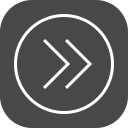
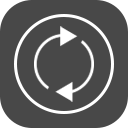
New structure of guns.json; Applied json data to gun in GunScreen correctly.

Changed region(s): [[0.25, 0.1875, 0.75, 0.8125]]

diff --git a/core/src/com/divelix/skitter/screens/GunScreen.kt b/core/src/com/divelix/skitter/screens/GunScreen.kt
@@ -7,16 +7,12 @@ import com.badlogic.gdx.InputMultiplexer
 import com.badlogic.gdx.graphics.GL20
 import com.badlogic.gdx.graphics.Texture
 import com.badlogic.gdx.graphics.g2d.SpriteBatch
-import com.badlogic.gdx.scenes.scene2d.Group
-import com.badlogic.gdx.scenes.scene2d.InputEvent
-import com.badlogic.gdx.scenes.scene2d.Stage
-import com.badlogic.gdx.scenes.scene2d.Touchable
+import com.badlogic.gdx.scenes.scene2d.*
 import com.badlogic.gdx.scenes.scene2d.ui.Container
 import com.badlogic.gdx.scenes.scene2d.ui.Image
 import com.badlogic.gdx.scenes.scene2d.ui.Label
 import com.badlogic.gdx.scenes.scene2d.ui.Table
 import com.badlogic.gdx.scenes.scene2d.utils.ClickListener
-import com.badlogic.gdx.scenes.scene2d.utils.DragListener
 import com.badlogic.gdx.scenes.scene2d.utils.TextureRegionDrawable
 import com.badlogic.gdx.utils.*
 import com.badlogic.gdx.utils.Array
@@ -55,14 +51,10 @@ class GunScreen(val game: Main): KtxScreen {
     var sourceContainer: Container<*>? = null
 
     var damage: Float
-    var reload_speed: Float
-    var critMult: Float
+    var reloadSpeed: Float
+    var bulletSpeed: Float
     var critChance: Float
-
-    var finalDamage = 0f
-    var finalSpeed = 0f
-    var finalCritMult = 0f
-    var finalCritChance = 0f
+    var critMult: Float
 
     init {
         val reader = JsonReader()
@@ -73,6 +65,7 @@ class GunScreen(val game: Main): KtxScreen {
         val guns = gunsData.get("guns")
         val mods = modsData.get("mods")
 
+        // GUN
         val playerGun = playerGuns[playerData.get("active_gun").asInt()]
         val playerGunIndex = playerGun.get("index").asInt()
         val playerGunLevel = playerGun.get("level").asInt()
@@ -86,13 +79,14 @@ class GunScreen(val game: Main): KtxScreen {
         }
 
         val gunSpecs = activeGun.get("specs")
-        damage = gunSpecs.get("damage").asFloat()
-        reload_speed = gunSpecs.get("reload_speed").asFloat()
-        // bullet speed
-        critChance = gunSpecs.get("crit_chance").asFloat()
-        critMult = gunSpecs.get("crit_multiplier").asFloat()
-        println(" Damage: $damage\n Reload: $reload_speed\n Crit multiplier: $critMult\n Crit chance: $critChance")
+        damage = gunSpecs[0].asFloat()
+        reloadSpeed = gunSpecs[1].asFloat()
+        bulletSpeed = gunSpecs[2].asFloat()
+        critChance = gunSpecs[3].asFloat()
+        critMult = gunSpecs[4].asFloat()
+        println(" Damage: $damage\n Reload: $reloadSpeed\n BulletSpeed: $bulletSpeed\n CritChance: $critChance\n CritMult: $critMult")
 
+        // MODS
         val gunMods = mods.get("gun")
         val playerGunModIndices = Array<Int>(playerGunMods.size)
         for (i in 0 until playerGunMods.size) {
@@ -156,7 +150,8 @@ class GunScreen(val game: Main): KtxScreen {
                     padLeft(10f)
                     defaults().expandX().left()
                     label("DAMAGE: $damage");row()
-                    label("RELOAD: $reload_speed");row()
+                    label("RELOAD: $reloadSpeed");row()
+                    label("SPEED: $bulletSpeed");row()
                     label("CRIT: $critMult");row()
                     label("CHANCE: $critChance")
                 }
@@ -193,7 +188,7 @@ class GunScreen(val game: Main): KtxScreen {
             }
         })
 
-        stage.addListener(object: DragListener() {
+        stage.addListener(object: ClickListener() {
 
             override fun touchDown(event: InputEvent?, x: Float, y: Float, pointer: Int, button: Int): Boolean {
                 super.touchDown(event, x, y, pointer, button)
@@ -228,7 +223,7 @@ class GunScreen(val game: Main): KtxScreen {
                     }
                     is Container<*> -> {
                         if (activeMod != null) {
-                            val isInSameTable = actor.parent.parent.name == activeMod!!.parent.parent.name
+                            val isInSameTable = actor.parent.name == activeMod!!.parent.parent.name
                             if (isInSameTable || !checkDupSuit(activeMod!!.mod.name) || activeMod!!.parent.parent.name == "SuitTable") {
                                 activeMod!!.children[1].remove()
                                 actor.actor = activeMod
@@ -260,25 +255,28 @@ class GunScreen(val game: Main): KtxScreen {
     }
 
     fun updateSpecs() {
-        finalDamage = damage
-        finalSpeed = reload_speed
-        finalCritMult = critMult
-        finalCritChance = critChance
+        var finalDamage = damage
+        var finalReloadSpeed = reloadSpeed
+        var finalBulletSpeed = bulletSpeed
+        var finalCritMult = critMult
+        var finalCritChance = critChance
         for (container in suitTable.children) {
             val c = (container as Container<*>)
             if (c.actor != null) {
                 val mod = (c.actor as ModImage).mod
                 when(mod.name) {
                     ModName.DAMAGE -> finalDamage *= 2f
-                    ModName.RELOAD_SPEED -> finalSpeed *= 1.1f
+                    ModName.RELOAD_SPEED -> finalReloadSpeed *= 1.1f
+                    ModName.BULLET_SPEED -> finalBulletSpeed *= 1.1f
                     else -> println("${mod.name} is not implemented yet")
                 }
             }
         }
         (specsTable.children[0] as Label).setText("DAMAGE: $finalDamage")
-        (specsTable.children[1] as Label).setText("SPEED: $finalSpeed")
-        (specsTable.children[2] as Label).setText("CRIT: $finalCritMult")
-        (specsTable.children[3] as Label).setText("CHANCE: $finalCritChance")
+        (specsTable.children[1] as Label).setText("RELOAD: $finalReloadSpeed")
+        (specsTable.children[2] as Label).setText("SPEED: $finalBulletSpeed")
+        (specsTable.children[3] as Label).setText("CRIT: $finalCritMult")
+        (specsTable.children[4] as Label).setText("CHANCE: $finalCritChance")
     }
 
     override fun render(delta: Float) {
@@ -344,14 +342,18 @@ class GunScreen(val game: Main): KtxScreen {
             val texture = when(mod.name) {
                 // Gun stockMods
                 ModName.DAMAGE -> assets.manager.get<Texture>(Constants.MOD_DAMAGE)
+                ModName.RELOAD_SPEED -> assets.manager.get<Texture>(Constants.MOD_RELOAD_SPEED)
+                ModName.BULLET_SPEED -> assets.manager.get<Texture>(Constants.MOD_BULLET_SPEED)
+                ModName.CRIT_CHANCE -> assets.manager.get<Texture>(Constants.LOADING_IMAGE) //TODO add texture
+                ModName.CRIT_MULT -> assets.manager.get<Texture>(Constants.LOADING_IMAGE) //TODO add texture
+
                 ModName.FIRE_DAMAGE -> assets.manager.get<Texture>(Constants.MOD_FIRE_DAMAGE)
                 ModName.COLD_DAMAGE -> assets.manager.get<Texture>(Constants.MOD_COLD_DAMAGE)
-                ModName.RELOAD_SPEED -> assets.manager.get<Texture>(Constants.MOD_RELOAD_SPEED)
 
                 // Ship stockMods
-                ModName.HEALTH -> TODO()
-                ModName.SPEED -> TODO()
-                ModName.MANA -> TODO()
+                ModName.HEALTH -> assets.manager.get<Texture>(Constants.LOADING_IMAGE) //TODO add texture
+                ModName.SPEED -> assets.manager.get<Texture>(Constants.LOADING_IMAGE) //TODO add texture
+                ModName.MANA -> assets.manager.get<Texture>(Constants.LOADING_IMAGE) //TODO add texture
             }
             addActor(Image(texture).apply {
                 touchable = Touchable.disabled

diff --git a/core/src/com/divelix/skitter/systems/PhysicsSystem.kt b/core/src/com/divelix/skitter/systems/PhysicsSystem.kt
@@ -16,7 +16,7 @@ import com.divelix.skitter.screens.PlayScreen
 class PhysicsSystem(private val world: World, private val blackList: ArrayList<Body>):
         IteratingSystem(Family.all(B2dBodyComponent::class.java, TransformComponent::class.java).get()) {
     companion object {
-        // create variables to stabilize reload_speed
+        // create variables to stabilize reloadSpeed
         private var accumulator = 0f
     }
     private val bodiesQueue: Array<Entity> = Array()

diff --git a/core/src/com/divelix/skitter/Assets.kt b/core/src/com/divelix/skitter/Assets.kt
@@ -45,6 +45,7 @@ class Assets: Disposable {
         manager.load<Texture>(Constants.UZI)
         manager.load<Texture>(Constants.MOD_GLOW)
         manager.load<Texture>(Constants.MOD_RELOAD_SPEED)
+        manager.load<Texture>(Constants.MOD_BULLET_SPEED)
         manager.load<Texture>(Constants.MOD_COLD_DAMAGE)
         manager.load<Texture>(Constants.MOD_DAMAGE)
         manager.load<Texture>(Constants.MOD_FIRE_DAMAGE)

diff --git a/core/src/com/divelix/skitter/systems/EnemySystem.kt b/core/src/com/divelix/skitter/systems/EnemySystem.kt
@@ -26,6 +26,6 @@ class EnemySystem: IteratingSystem(Family.all(EnemyComponent::class.java).get())
         bodyCmp.body.linearVelocity = playerPos.sub(enemyPos).nor().scl(speed)
 
 //        time += deltaTime
-//        bodyCmp.body.linearVelocity = Vector2(reload_speed * MathUtils.sin(time), -5f)
+//        bodyCmp.body.linearVelocity = Vector2(reloadSpeed * MathUtils.sin(time), -5f)
     }
 }

diff --git a/core/src/com/divelix/skitter/Constants.kt b/core/src/com/divelix/skitter/Constants.kt
@@ -51,6 +51,7 @@ object Constants {
     const val UZI = "uzi.png"
     const val MOD_GLOW = "mods/mod-glow.png"
     const val MOD_RELOAD_SPEED = "mods/reload-speed.png"
+    const val MOD_BULLET_SPEED = "mods/bullet-speed.png"
     const val MOD_COLD_DAMAGE = "mods/cold-damage.png"
     const val MOD_DAMAGE = "mods/damage.png"
     const val MOD_FIRE_DAMAGE = "mods/fire-damage.png"

diff --git a/core/src/com/divelix/skitter/Mod.kt b/core/src/com/divelix/skitter/Mod.kt
@@ -6,6 +6,9 @@ enum class ModName {
     // Gun
     DAMAGE,
     RELOAD_SPEED,
+    BULLET_SPEED,
+    CRIT_CHANCE,
+    CRIT_MULT,
     FIRE_DAMAGE,
     COLD_DAMAGE,
 

diff --git a/core/src/com/divelix/skitter/Noise.java b/core/src/com/divelix/skitter/Noise.java
@@ -49,7 +49,7 @@ public class Noise implements Serializable {
      * then runs a simple unary hash on s and returns it. Has better performance than HastyPointHash, especially for
      * ints, and has slightly fewer collisions in a hash table of points. GWT-optimized. Inspired by Pelle Evensen's
      * rrxmrrxmsx_0 unary hash, though this doesn'stockTable use its code or its full algorithm. The unary hash used here has
-     * been stripped down heavily, both for reload_speed and because unless points are selected specifically to target
+     * been stripped down heavily, both for reloadSpeed and because unless points are selected specifically to target
      * flaws in the hash, it doesn'stockTable need the intense resistance to bad inputs that rrxmrrxmsx_0 has.
      * @param x x position, as an int
      * @param y y position, as an int
@@ -65,7 +65,7 @@ public class Noise implements Serializable {
      * then runs a simple unary hash on s and returns it. Has better performance than HastyPointHash, especially for
      * ints, and has slightly fewer collisions in a hash table of points. GWT-optimized. Inspired by Pelle Evensen's
      * rrxmrrxmsx_0 unary hash, though this doesn'stockTable use its code or its full algorithm. The unary hash used here has
-     * been stripped down heavily, both for reload_speed and because unless points are selected specifically to target
+     * been stripped down heavily, both for reloadSpeed and because unless points are selected specifically to target
      flaws in the hash, it doesn'stockTable need the intense resistance to bad inputs that rrxmrrxmsx_0 has.
      * @param x x position, as an int
      * @param y y position, as an int
@@ -83,7 +83,7 @@ public class Noise implements Serializable {
      * then runs a simple unary hash on s and returns it. Has better performance than HastyPointHash, especially for
      * ints, and has slightly fewer collisions in a hash table of points. GWT-optimized. Inspired by Pelle Evensen's
      * rrxmrrxmsx_0 unary hash, though this doesn'stockTable use its code or its full algorithm. The unary hash used here has
-     * been stripped down heavily, both for reload_speed and because unless points are selected specifically to target
+     * been stripped down heavily, both for reloadSpeed and because unless points are selected specifically to target
      * flaws in the hash, it doesn'stockTable need the intense resistance to bad inputs that rrxmrrxmsx_0 has.
      * @param x x position, as an int
      * @param y y position, as an int
@@ -102,7 +102,7 @@ public class Noise implements Serializable {
      * numbers, then runs a simple unary hash on s and returns it. Has better performance than HastyPointHash,
      * especially for ints, and has slightly fewer collisions in a hash table of points. GWT-optimized. Inspired by
      * Pelle Evensen's rrxmrrxmsx_0 unary hash, though this doesn'stockTable use its code or its full algorithm. The unary
-     * hash used here has been stripped down heavily, both for reload_speed and because unless points are selected
+     * hash used here has been stripped down heavily, both for reloadSpeed and because unless points are selected
      * specifically to target flaws in the hash, it doesn'stockTable need the intense resistance to bad inputs that
      * rrxmrrxmsx_0 has.
      * @param x x position, as an int
@@ -124,7 +124,7 @@ public class Noise implements Serializable {
      * then runs a simple unary hash on s and returns it. Has better performance than HastyPointHash, especially for
      * ints, and has slightly fewer collisions in a hash table of points. GWT-optimized. Inspired by Pelle Evensen's
      * rrxmrrxmsx_0 unary hash, though this doesn'stockTable use its code or its full algorithm. The unary hash used here has
-     * been stripped down heavily, both for reload_speed and because unless points are selected specifically to target
+     * been stripped down heavily, both for reloadSpeed and because unless points are selected specifically to target
      * flaws in the hash, it doesn'stockTable need the intense resistance to bad inputs that rrxmrrxmsx_0 has.
      * @param x x position, as an int
      * @param y y position, as an int
@@ -140,7 +140,7 @@ public class Noise implements Serializable {
      * then runs a simple unary hash on s and returns it. Has better performance than HastyPointHash, especially for
      * ints, and has slightly fewer collisions in a hash table of points. GWT-optimized. Inspired by Pelle Evensen's
      * rrxmrrxmsx_0 unary hash, though this doesn'stockTable use its code or its full algorithm. The unary hash used here has
-     * been stripped down heavily, both for reload_speed and because unless points are selected specifically to target
+     * been stripped down heavily, both for reloadSpeed and because unless points are selected specifically to target
      flaws in the hash, it doesn'stockTable need the intense resistance to bad inputs that rrxmrrxmsx_0 has.
      * @param x x position, as an int
      * @param y y position, as an int
@@ -158,7 +158,7 @@ public class Noise implements Serializable {
      * then runs a simple unary hash on s and returns it. Has better performance than HastyPointHash, especially for
      * ints, and has slightly fewer collisions in a hash table of points. GWT-optimized. Inspired by Pelle Evensen's
      * rrxmrrxmsx_0 unary hash, though this doesn'stockTable use its code or its full algorithm. The unary hash used here has
-     * been stripped down heavily, both for reload_speed and because unless points are selected specifically to target
+     * been stripped down heavily, both for reloadSpeed and because unless points are selected specifically to target
      * flaws in the hash, it doesn'stockTable need the intense resistance to bad inputs that rrxmrrxmsx_0 has.
      * @param x x position, as an int
      * @param y y position, as an int
@@ -177,7 +177,7 @@ public class Noise implements Serializable {
      * numbers, then runs a simple unary hash on s and returns it. Has better performance than HastyPointHash,
      * especially for ints, and has slightly fewer collisions in a hash table of points. GWT-optimized. Inspired by
      * Pelle Evensen's rrxmrrxmsx_0 unary hash, though this doesn'stockTable use its code or its full algorithm. The unary
-     * hash used here has been stripped down heavily, both for reload_speed and because unless points are selected
+     * hash used here has been stripped down heavily, both for reloadSpeed and because unless points are selected
      * specifically to target flaws in the hash, it doesn'stockTable need the intense resistance to bad inputs that
      * rrxmrrxmsx_0 has.
      * @param x x position, as an int
@@ -199,7 +199,7 @@ public class Noise implements Serializable {
      * then runs a simple unary hash on s and returns it. Has better performance than HastyPointHash, especially for
      * ints, and has slightly fewer collisions in a hash table of points. GWT-optimized. Inspired by Pelle Evensen's
      * rrxmrrxmsx_0 unary hash, though this doesn'stockTable use its code or its full algorithm. The unary hash used here has
-     * been stripped down heavily, both for reload_speed and because unless points are selected specifically to target
+     * been stripped down heavily, both for reloadSpeed and because unless points are selected specifically to target
      * flaws in the hash, it doesn'stockTable need the intense resistance to bad inputs that rrxmrrxmsx_0 has.
      * @param x x position, as an int
      * @param y y position, as an int
@@ -215,7 +215,7 @@ public class Noise implements Serializable {
      * then runs a simple unary hash on s and returns it. Has better performance than HastyPointHash, especially for
      * ints, and has slightly fewer collisions in a hash table of points. GWT-optimized. Inspired by Pelle Evensen's
      * rrxmrrxmsx_0 unary hash, though this doesn'stockTable use its code or its full algorithm. The unary hash used here has
-     * been stripped down heavily, both for reload_speed and because unless points are selected specifically to target
+     * been stripped down heavily, both for reloadSpeed and because unless points are selected specifically to target
      flaws in the hash, it doesn'stockTable need the intense resistance to bad inputs that rrxmrrxmsx_0 has.
      * @param x x position, as an int
      * @param y y position, as an int
@@ -233,7 +233,7 @@ public class Noise implements Serializable {
      * then runs a simple unary hash on s and returns it. Has better performance than HastyPointHash, especially for
      * ints, and has slightly fewer collisions in a hash table of points. GWT-optimized. Inspired by Pelle Evensen's
      * rrxmrrxmsx_0 unary hash, though this doesn'stockTable use its code or its full algorithm. The unary hash used here has
-     * been stripped down heavily, both for reload_speed and because unless points are selected specifically to target
+     * been stripped down heavily, both for reloadSpeed and because unless points are selected specifically to target
      * flaws in the hash, it doesn'stockTable need the intense resistance to bad inputs that rrxmrrxmsx_0 has.
      * @param x x position, as an int
      * @param y y position, as an int
@@ -252,7 +252,7 @@ public class Noise implements Serializable {
      * numbers, then runs a simple unary hash on s and returns it. Has better performance than HastyPointHash,
      * especially for ints, and has slightly fewer collisions in a hash table of points. GWT-optimized. Inspired by
      * Pelle Evensen's rrxmrrxmsx_0 unary hash, though this doesn'stockTable use its code or its full algorithm. The unary
-     * hash used here has been stripped down heavily, both for reload_speed and because unless points are selected
+     * hash used here has been stripped down heavily, both for reloadSpeed and because unless points are selected
      * specifically to target flaws in the hash, it doesn'stockTable need the intense resistance to bad inputs that
      * rrxmrrxmsx_0 has.
      * @param x x position, as an int
@@ -273,7 +273,7 @@ public class Noise implements Serializable {
      * then runs a simple unary hash on s and returns it. Has better performance than HastyPointHash, especially for
      * ints, and has slightly fewer collisions in a hash table of points. GWT-optimized. Inspired by Pelle Evensen's
      * rrxmrrxmsx_0 unary hash, though this doesn'stockTable use its code or its full algorithm. The unary hash used here has
-     * been stripped down heavily, both for reload_speed and because unless points are selected specifically to target
+     * been stripped down heavily, both for reloadSpeed and because unless points are selected specifically to target
      * flaws in the hash, it doesn'stockTable need the intense resistance to bad inputs that rrxmrrxmsx_0 has.
      * @param x x position, as an int
      * @param y y position, as an int
@@ -289,7 +289,7 @@ public class Noise implements Serializable {
      * then runs a simple unary hash on s and returns it. Has better performance than HastyPointHash, especially for
      * ints, and has slightly fewer collisions in a hash table of points. GWT-optimized. Inspired by Pelle Evensen's
      * rrxmrrxmsx_0 unary hash, though this doesn'stockTable use its code or its full algorithm. The unary hash used here has
-     * been stripped down heavily, both for reload_speed and because unless points are selected specifically to target
+     * been stripped down heavily, both for reloadSpeed and because unless points are selected specifically to target
      flaws in the hash, it doesn'stockTable need the intense resistance to bad inputs that rrxmrrxmsx_0 has.
      * @param x x position, as an int
      * @param y y position, as an int
@@ -307,7 +307,7 @@ public class Noise implements Serializable {
      * then runs a simple unary hash on s and returns it. Has better performance than HastyPointHash, especially for
      * ints, and has slightly fewer collisions in a hash table of points. GWT-optimized. Inspired by Pelle Evensen's
      * rrxmrrxmsx_0 unary hash, though this doesn'stockTable use its code or its full algorithm. The unary hash used here has
-     * been stripped down heavily, both for reload_speed and because unless points are selected specifically to target
+     * been stripped down heavily, both for reloadSpeed and because unless points are selected specifically to target
      * flaws in the hash, it doesn'stockTable need the intense resistance to bad inputs that rrxmrrxmsx_0 has.
      * @param x x position, as an int
      * @param y y position, as an int
@@ -326,7 +326,7 @@ public class Noise implements Serializable {
      * numbers, then runs a simple unary hash on s and returns it. Has better performance than HastyPointHash,
      * especially for ints, and has slightly fewer collisions in a hash table of points. GWT-optimized. Inspired by
      * Pelle Evensen's rrxmrrxmsx_0 unary hash, though this doesn'stockTable use its code or its full algorithm. The unary
-     * hash used here has been stripped down heavily, both for reload_speed and because unless points are selected
+     * hash used here has been stripped down heavily, both for reloadSpeed and because unless points are selected
      * specifically to target flaws in the hash, it doesn'stockTable need the intense resistance to bad inputs that
      * rrxmrrxmsx_0 has.
      * @param x x position, as an int
